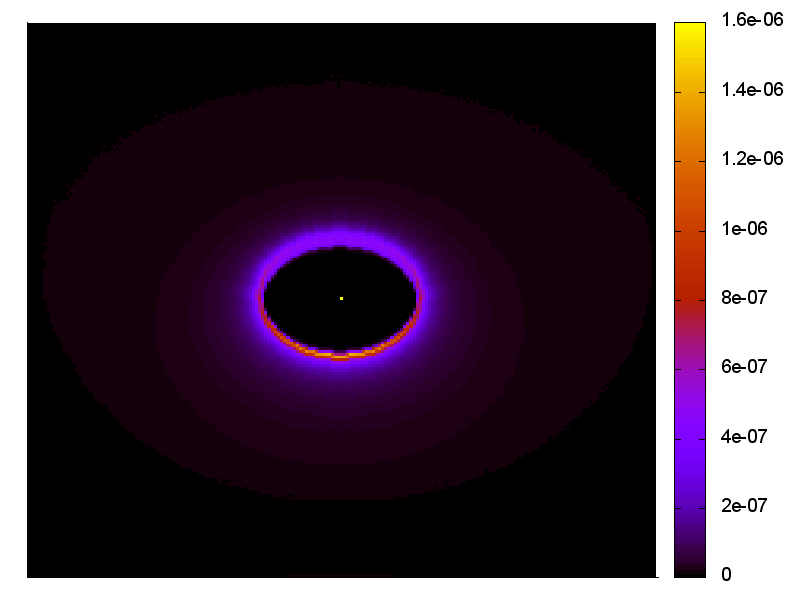
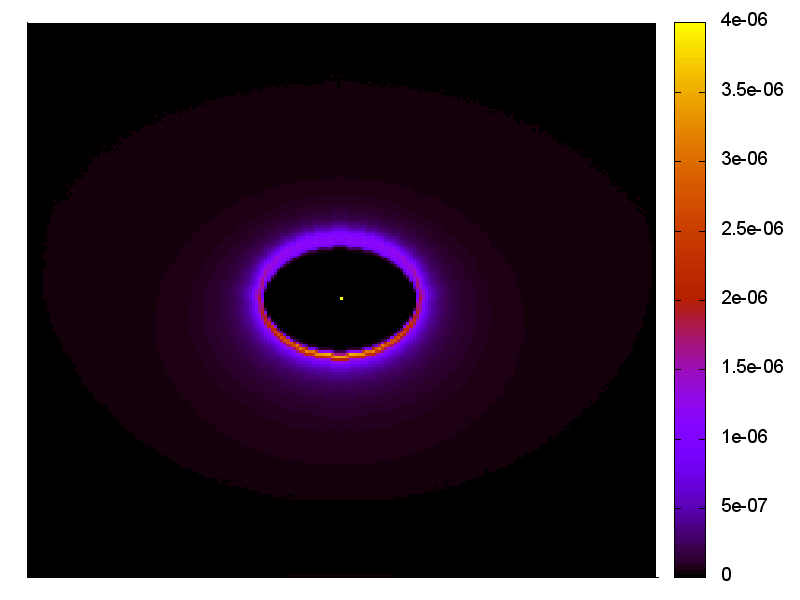
Albedo bug fixed.

diff --git a/source/grid.cpp b/source/grid.cpp
@@ -249,9 +249,9 @@ void GRID::Peeloff( PHOTON ph, DIRECTION const & obs, MODEL const &m, PICTURES *
 	double tau2 = TauFind(ph);
 	
 	if(tau2 == 0.0) return;
-	double phot=ph.weight()*hgfac*m.albedo()*exp(-tau2)*ph.fi();
-	double photq=ph.weight()*hgfac*m.albedo()*exp(-tau2)*ph.fq();
-	double photu=ph.weight()*hgfac*m.albedo()*exp(-tau2)*ph.fu();
+	double phot=ph.weight()*hgfac*exp(-tau2)*ph.fi();
+	double photq=ph.weight()*hgfac*exp(-tau2)*ph.fq();
+	double photu=ph.weight()*hgfac*exp(-tau2)*ph.fu();
 	// Bin the photon into the image according to its position and 
 	//direction of travel. 
 	pict[0].Bin( ph, phot, photq, photu);
@@ -269,9 +269,9 @@ void GRID::Peeloff( PHOTON ph, MODEL const &m, PICTURES *pict,  SCATHOLDER *hold
 	double tau2 = TauFind(ph);
 
 	if(tau2 == 0.0) return;
-	double phot=ph.weight()*hgfac*m.albedo()*exp(-tau2)*ph.fi();
-	double photq=ph.weight()*hgfac*m.albedo()*exp(-tau2)*ph.fq();
-	double photu=ph.weight()*hgfac*m.albedo()*exp(-tau2)*ph.fu();
+	double phot=ph.weight()*hgfac*exp(-tau2)*ph.fi();
+	double photq=ph.weight()*hgfac*exp(-tau2)*ph.fq();
+	double photu=ph.weight()*hgfac*exp(-tau2)*ph.fu();
 	// Bin the photon into the image according to its position and 
 	//direction of travel. 
 	pict[0].Bin( ph, phot, photq, photu);
